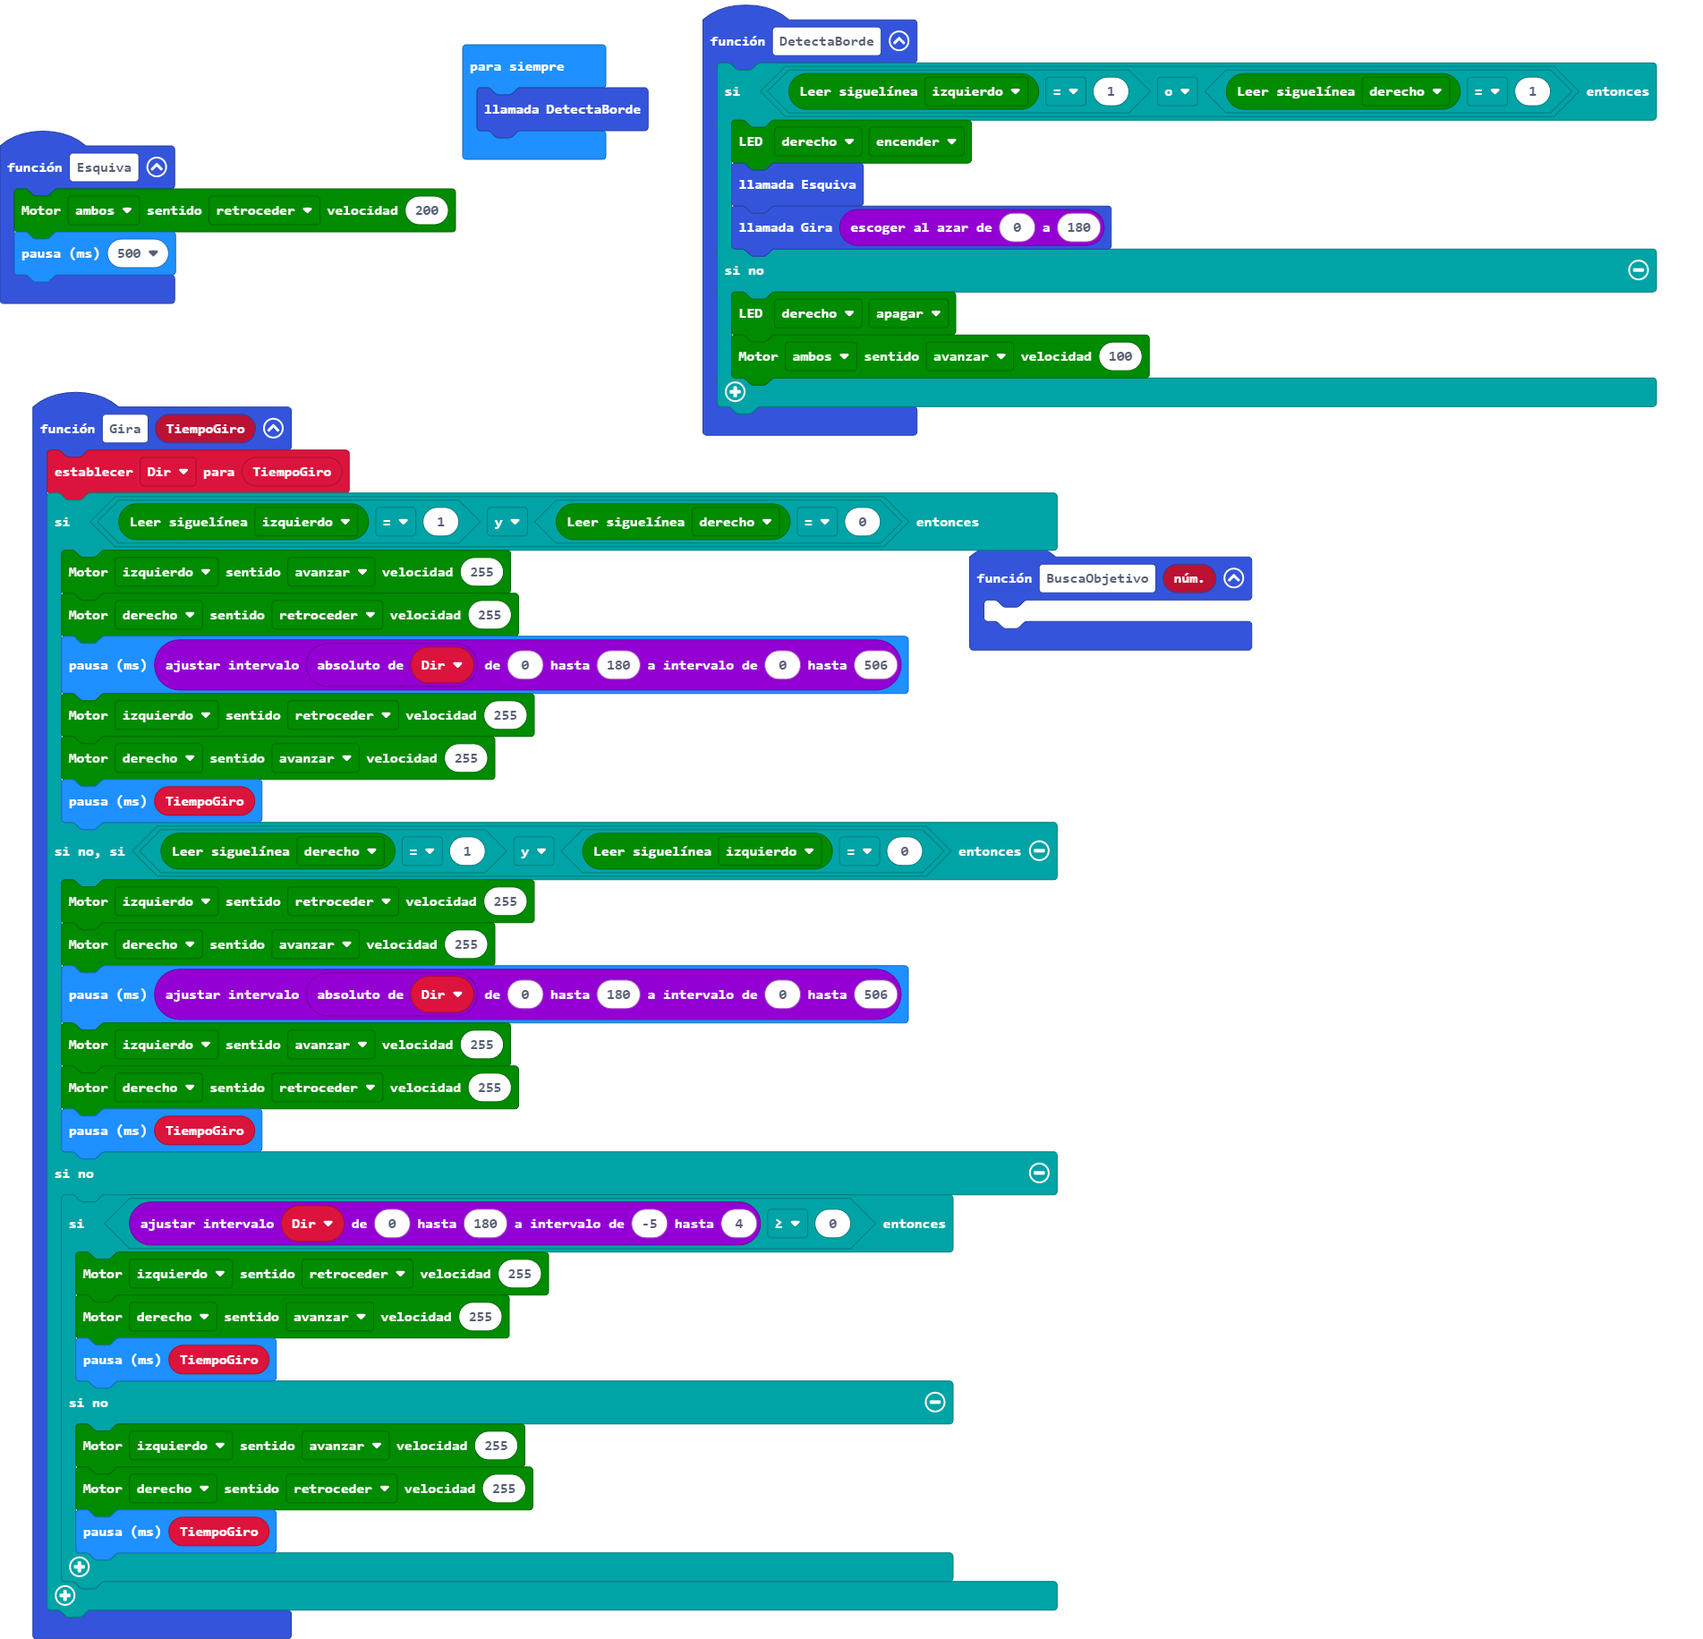
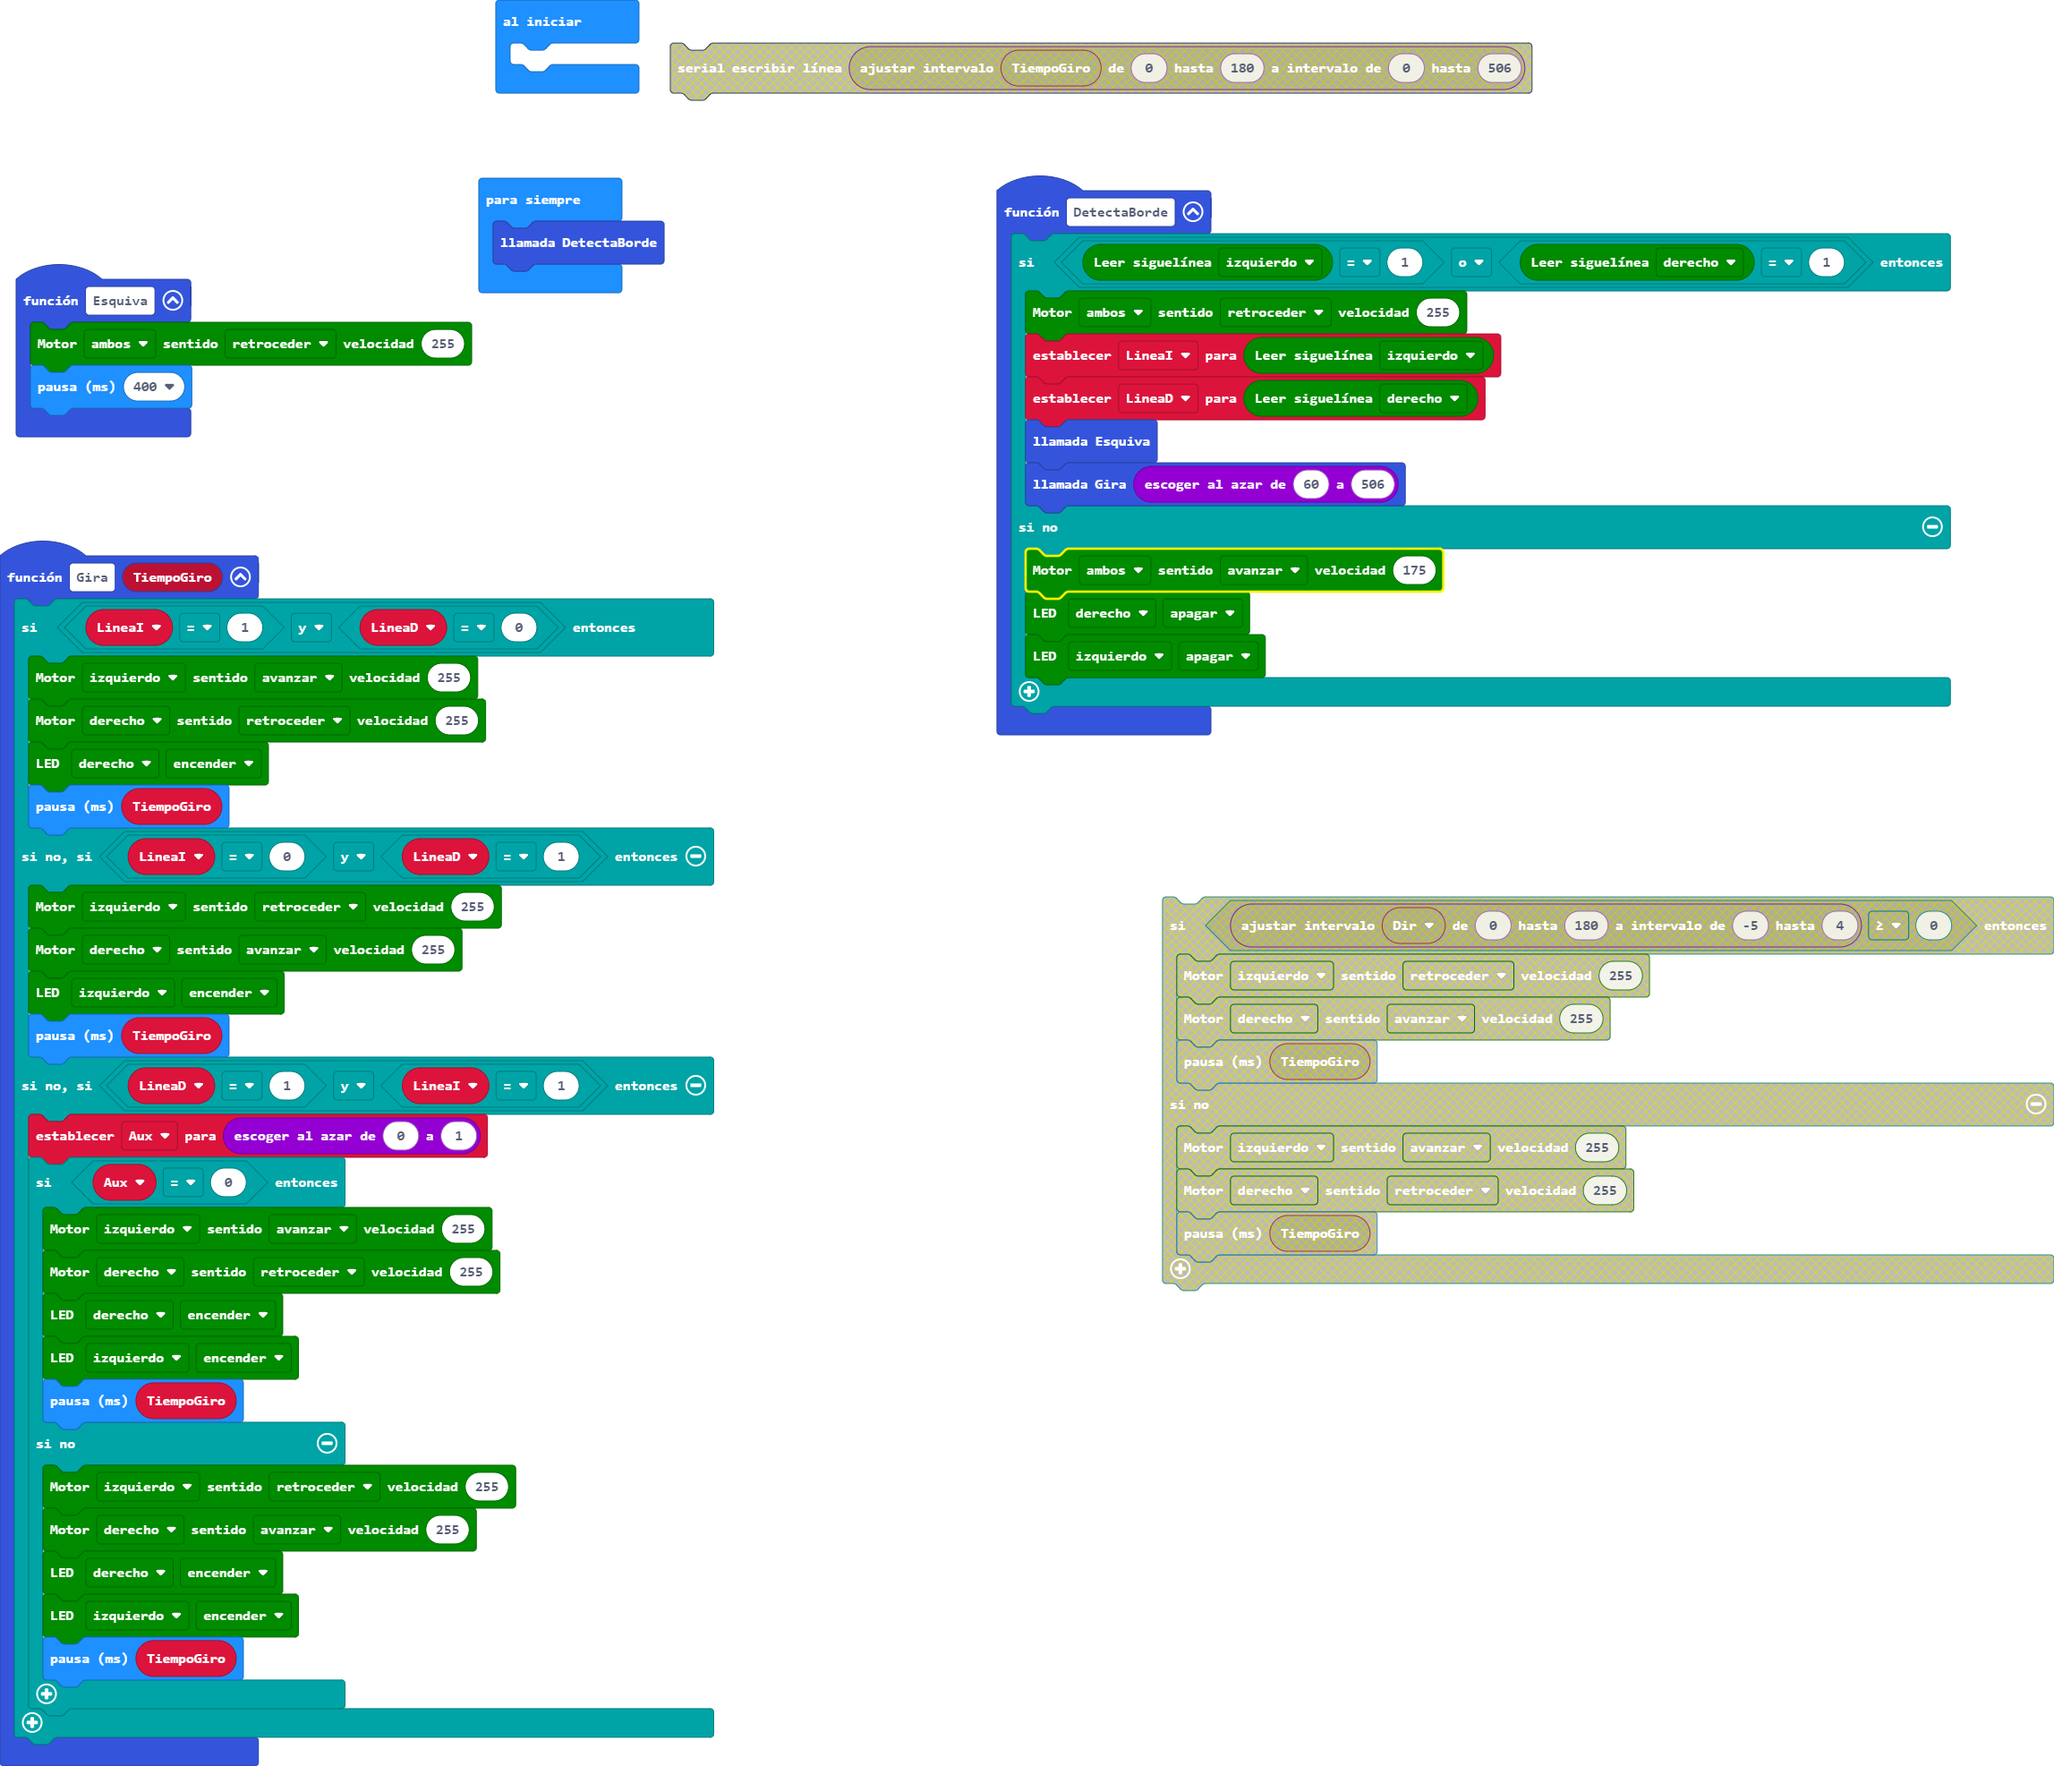
correccion velocidad

diff --git a/main.ts b/main.ts
@@ -1,48 +1,50 @@
-let Dir = 0
-function BuscaObjetivo (núm: number) {
-	
-}
+let LineaI = 0
+let LineaD = 0
+let Aux = 0
 function DetectaBorde () {
     if (maqueen.readPatrol(maqueen.Patrol.PatrolLeft) == 1 || maqueen.readPatrol(maqueen.Patrol.PatrolRight) == 1) {
-        maqueen.writeLED(maqueen.LED.LEDLeft, maqueen.LEDswitch.turnOn)
+        maqueen.motorRun(maqueen.Motors.All, maqueen.Dir.CCW, 255)
+        LineaI = maqueen.readPatrol(maqueen.Patrol.PatrolLeft)
+        LineaD = maqueen.readPatrol(maqueen.Patrol.PatrolRight)
         Esquiva()
-        Gira(randint(0, 180))
+        Gira(randint(60, 506))
     } else {
+        maqueen.motorRun(maqueen.Motors.All, maqueen.Dir.CW, 175)
         maqueen.writeLED(maqueen.LED.LEDLeft, maqueen.LEDswitch.turnOff)
-        maqueen.motorRun(maqueen.Motors.All, maqueen.Dir.CW, 100)
+        maqueen.writeLED(maqueen.LED.LEDRight, maqueen.LEDswitch.turnOff)
     }
 }
 function Gira (TiempoGiro: number) {
-    Dir = TiempoGiro
-    if (maqueen.readPatrol(maqueen.Patrol.PatrolLeft) == 1 && maqueen.readPatrol(maqueen.Patrol.PatrolRight) == 0) {
+    if (LineaI == 1 && LineaD == 0) {
         maqueen.motorRun(maqueen.Motors.M1, maqueen.Dir.CW, 255)
         maqueen.motorRun(maqueen.Motors.M2, maqueen.Dir.CCW, 255)
-        basic.pause(Math.map(Math.abs(Dir), 0, 180, 0, 506))
+        maqueen.writeLED(maqueen.LED.LEDLeft, maqueen.LEDswitch.turnOn)
+        basic.pause(TiempoGiro)
+    } else if (LineaI == 0 && LineaD == 1) {
         maqueen.motorRun(maqueen.Motors.M1, maqueen.Dir.CCW, 255)
         maqueen.motorRun(maqueen.Motors.M2, maqueen.Dir.CW, 255)
+        maqueen.writeLED(maqueen.LED.LEDRight, maqueen.LEDswitch.turnOn)
         basic.pause(TiempoGiro)
-    } else if (maqueen.readPatrol(maqueen.Patrol.PatrolRight) == 1 && maqueen.readPatrol(maqueen.Patrol.PatrolLeft) == 0) {
-        maqueen.motorRun(maqueen.Motors.M1, maqueen.Dir.CCW, 255)
-        maqueen.motorRun(maqueen.Motors.M2, maqueen.Dir.CW, 255)
-        basic.pause(Math.map(Math.abs(Dir), 0, 180, 0, 506))
-        maqueen.motorRun(maqueen.Motors.M1, maqueen.Dir.CW, 255)
-        maqueen.motorRun(maqueen.Motors.M2, maqueen.Dir.CCW, 255)
-        basic.pause(TiempoGiro)
-    } else {
-        if (Math.map(Dir, 0, 180, -5, 4) >= 0) {
-            maqueen.motorRun(maqueen.Motors.M1, maqueen.Dir.CCW, 255)
-            maqueen.motorRun(maqueen.Motors.M2, maqueen.Dir.CW, 255)
-            basic.pause(TiempoGiro)
-        } else {
+    } else if (LineaD == 1 && LineaI == 1) {
+        Aux = randint(0, 1)
+        if (Aux == 0) {
             maqueen.motorRun(maqueen.Motors.M1, maqueen.Dir.CW, 255)
             maqueen.motorRun(maqueen.Motors.M2, maqueen.Dir.CCW, 255)
+            maqueen.writeLED(maqueen.LED.LEDLeft, maqueen.LEDswitch.turnOn)
+            maqueen.writeLED(maqueen.LED.LEDRight, maqueen.LEDswitch.turnOn)
+            basic.pause(TiempoGiro)
+        } else {
+            maqueen.motorRun(maqueen.Motors.M1, maqueen.Dir.CCW, 255)
+            maqueen.motorRun(maqueen.Motors.M2, maqueen.Dir.CW, 255)
+            maqueen.writeLED(maqueen.LED.LEDLeft, maqueen.LEDswitch.turnOn)
+            maqueen.writeLED(maqueen.LED.LEDRight, maqueen.LEDswitch.turnOn)
             basic.pause(TiempoGiro)
         }
     }
 }
 function Esquiva () {
-    maqueen.motorRun(maqueen.Motors.All, maqueen.Dir.CCW, 200)
-    basic.pause(500)
+    maqueen.motorRun(maqueen.Motors.All, maqueen.Dir.CCW, 255)
+    basic.pause(400)
 }
 basic.forever(function () {
     DetectaBorde()
